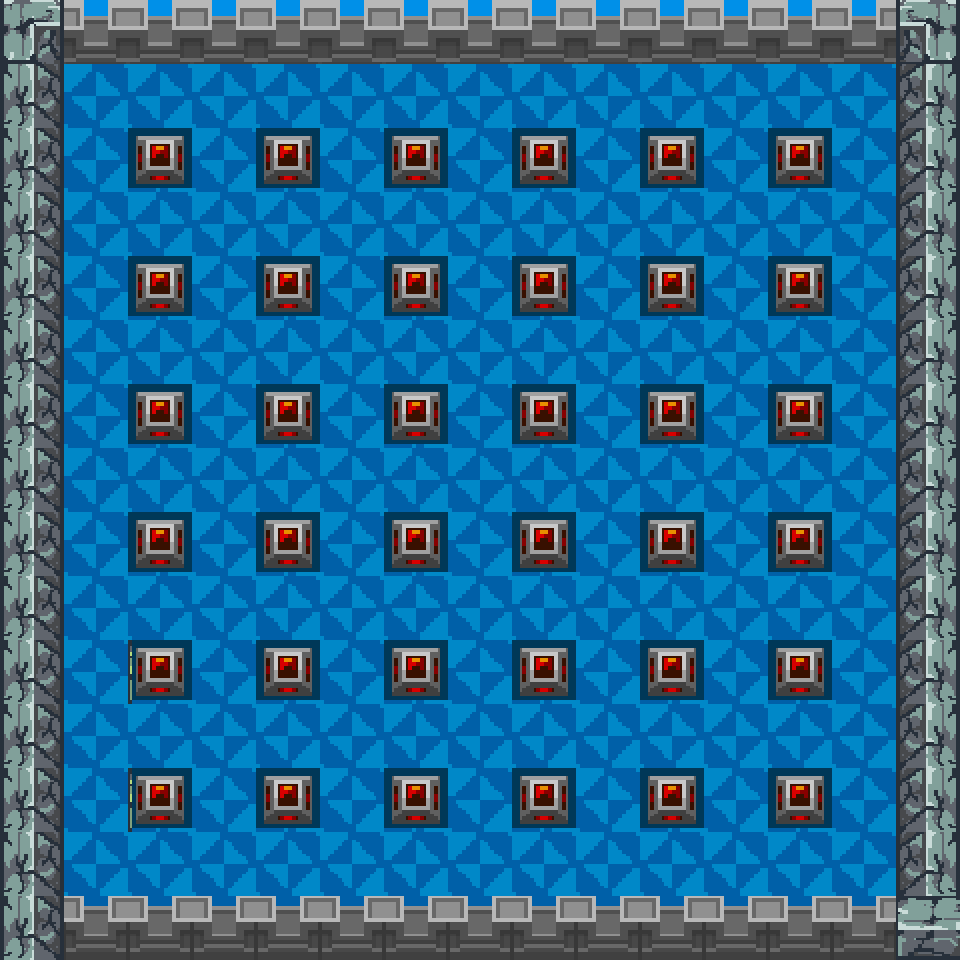
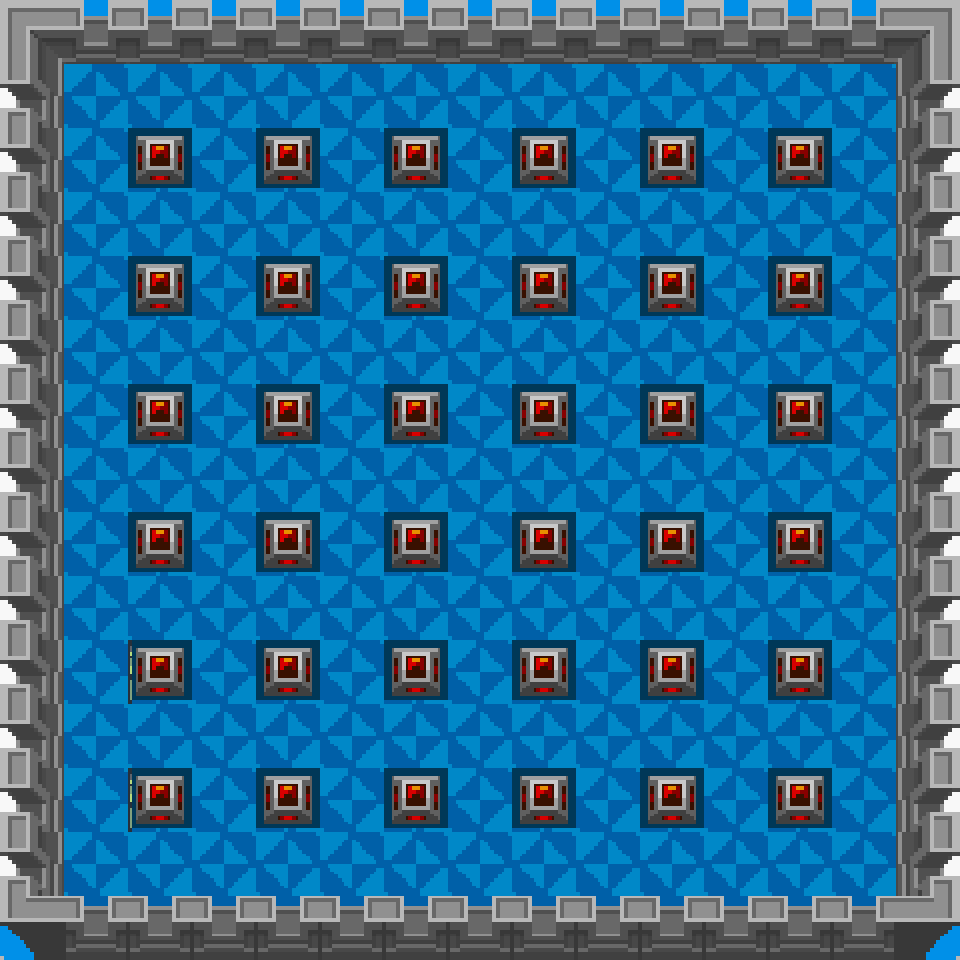
update map 2 and fix Balloon direction change speed

Changed region(s): [[0.9062, 0.0, 1.0, 1.0], [0.0, 0.0, 0.0938, 1.0]]

diff --git a/src/Entities/Balloon.java b/src/Entities/Balloon.java
@@ -50,21 +50,25 @@ public class Balloon extends Enemy {
     @Override
     public void setAction() {
 
-        switch (direction) {
-            case "up":
-                direction = "right";
-                break;
-            case "down":
-                direction = "left";
-                break;
-            case "left":
-                direction = "up";
-                break;
-            case "right":
-                direction = "down";
-                break;
+        actionLockCounter++;
+        if(actionLockCounter%10==0) {
+            switch (direction) {
+                case "up":
+                    direction = "right";
+                    break;
+                case "down":
+                    direction = "left";
+                    break;
+                case "left":
+                    direction = "up";
+                    break;
+                case "right":
+                    direction = "down";
+                    break;
+            }
+            collision = false;
+            actionLockCounter = 0;
         }
-        collision = false;
     }
 
     @Override
